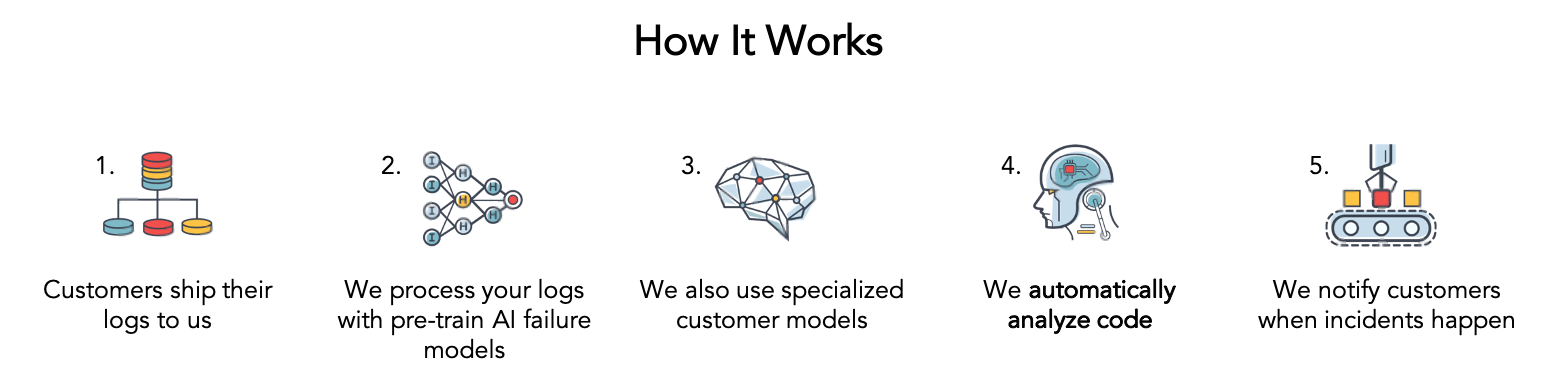
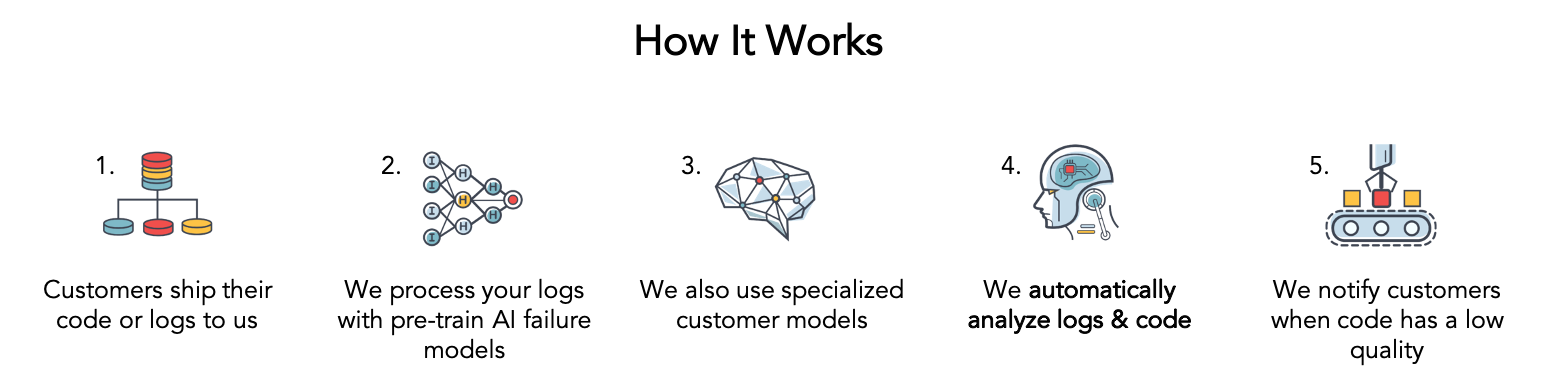
Improved Stage Verifier with template mining

diff --git a/docs/monitor_deployments/stage_verifier.md b/docs/monitor_deployments/stage_verifier.md
@@ -19,8 +19,6 @@ Ship the logs of the baseline version and candidate version to our centralized l
 <img width="1000" src="/monitor_deployments/how_it_works.png"/>
 </div>
 
-> [!WARNING] Update image
-
 
 ## Intelligent Verification
 
@@ -30,13 +28,9 @@ A log record usually contains: timestamp, level, thread ID, component ID, text, 
 Template mining converts the text field, which describes a state of an IT system, into a feature vector of variables/values. 
 Feature vectors are needed since they enable AI-driven processing of logs. 
 
-> [!WARNING] Update image 
-> Replace by image
-> 
-> Unstructured log >  structured log records
-> 
-> "Customer ID 34 started purchase workflow at worker a87ca34" >>>> 
-> {'template': "Customer ID * started purchase workflow at worker *", 'v1': '34', 'v2': 'a87ca34'}
+<div align=center>
+<img width="600" src="/monitor_deployments/template_mining.png"/>
+</div>
 
 ### Semantic analysis
 The baseline version and candidate version of an application are compared using semantics.

diff --git a/docs/analyze_code/code_inspector.md b/docs/analyze_code/code_inspector.md
@@ -20,8 +20,6 @@ We access your code or you ship the logs to our centralized logging platform.
 <img width="1000" src="/analyze_code/how_it_works.png"/>
 </div>
 
-> [!WARNING] Update image
-
 
 ## Intelligent NLU
 
